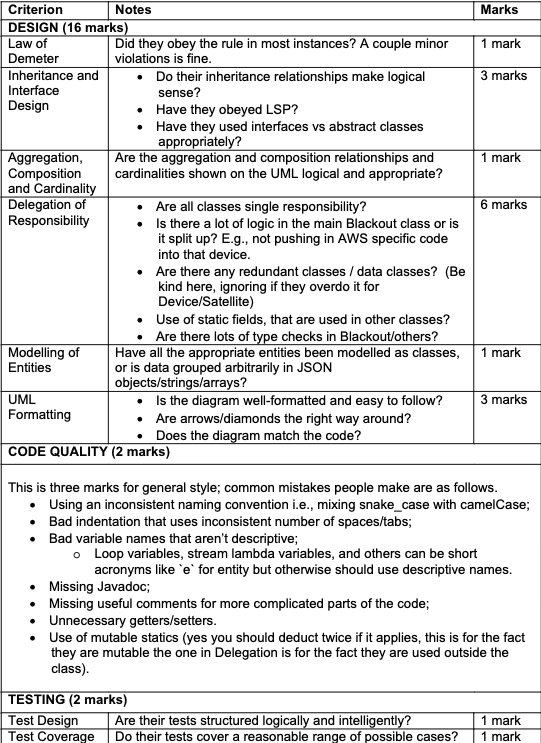
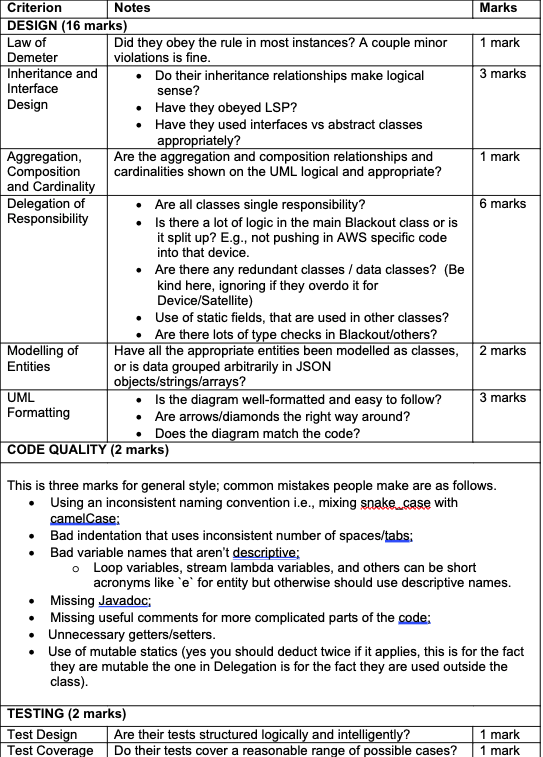
Update assignment/marking.png, assignment/README.md files Deleted assignment/marking.png

diff --git a/assignment/README.md b/assignment/README.md
@@ -76,7 +76,7 @@ Design:
     - Note on over-abstraction
 - Aggregation: 1
 - Delegation: 6
-- Modelling of entities: 1
+- Modelling of entities: 2
 - UML Formatting: 3
 
 Code Quality:
@@ -113,7 +113,7 @@ Design:
 - Aggregation: 1
 - Delegation: 2
     - The use of a helper class is a *bit* better, but not really.
-- Modelling of entities: 1
+- Modelling of entities: 2
 - UML Formatting: 1.5
     - Incorrect arrows for inheritance
 
@@ -125,9 +125,7 @@ Tests:
 
 | Automarking | Elephant Satellite | Handmarking | Total |
 | ----------- |  -----------| ----------- | ----- |
-| 9.5 / 18.5   | 0/1.5 | 9.5 / 20     | 20 / 40|
-
-> Adjusted final mark to pass, you can do this if it's close and they deserve it.
+| 9.5 / 18.5   | 0/1.5 | 10.5 / 20     | 20 / 40|
 
 ### Medium Performing Example (design)
 
